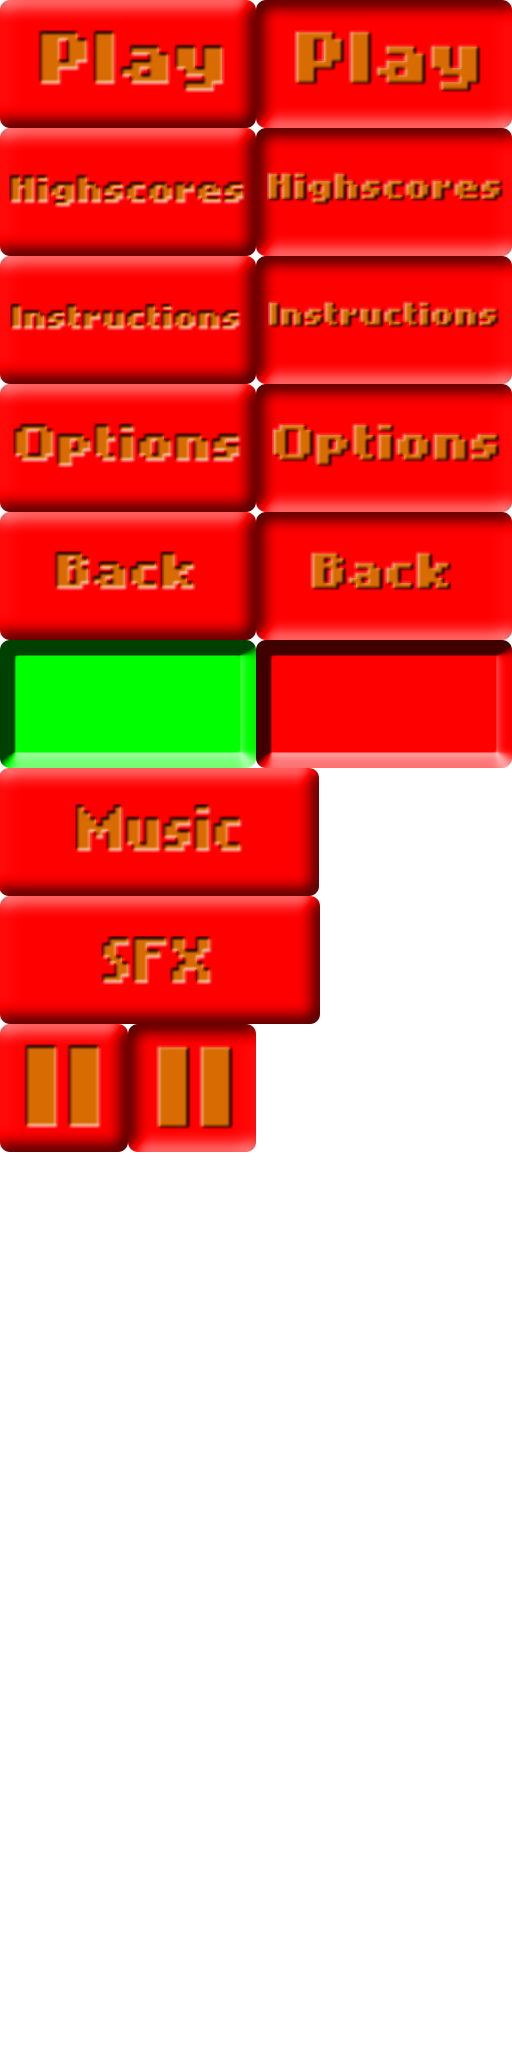
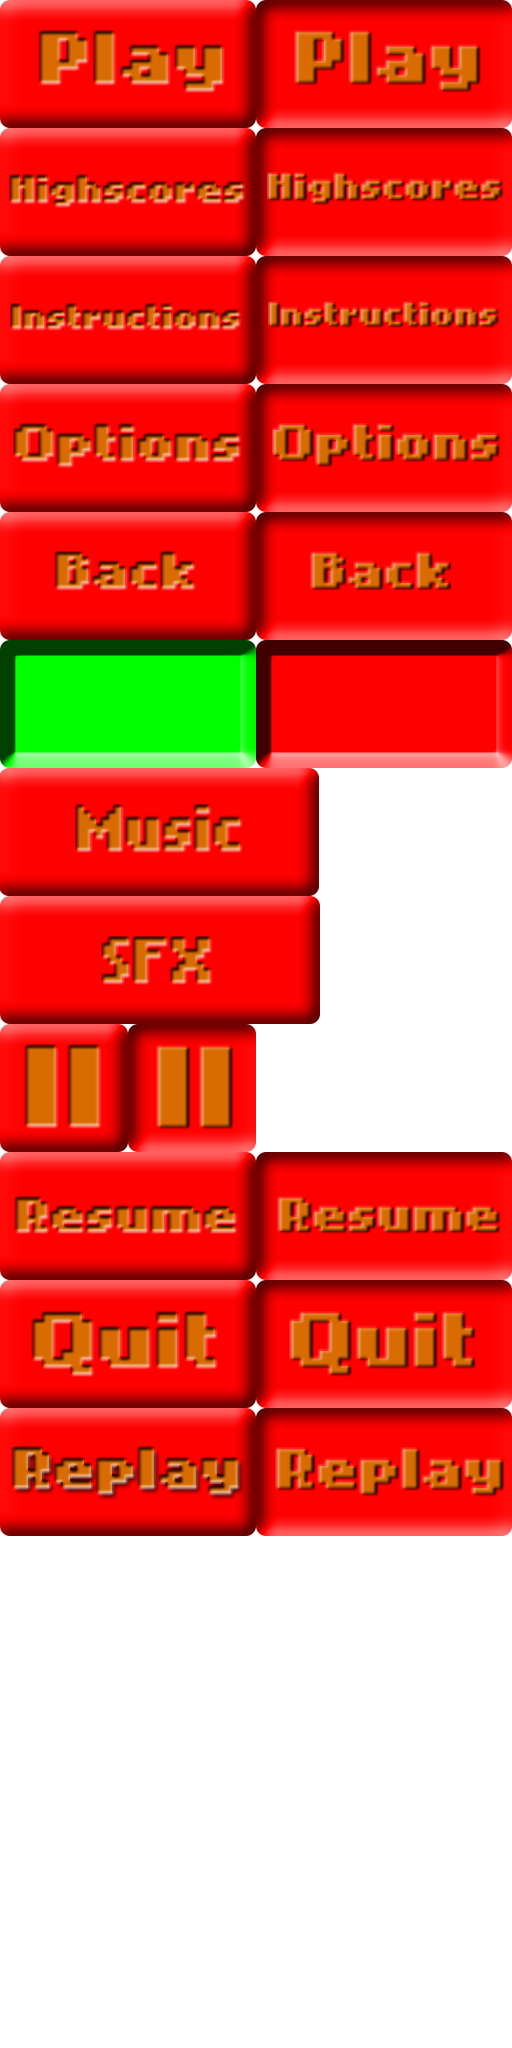
Pause and GameOver
started building pause and game over UI

Changed region(s): [[0.0, 0.5625, 1.0, 0.75]]

diff --git a/Tiltiland/src/scom/game/tiltiland/GamePlayScreen.java b/Tiltiland/src/scom/game/tiltiland/GamePlayScreen.java
@@ -29,6 +29,9 @@ public class GamePlayScreen extends Screen
 	
 	// Booleans for button presses
 	boolean pausePush = false;
+	boolean resumePush = false;
+	boolean quitPush = false;
+	boolean replayPush = false;
 	
 	// Objects game has
 	Island island; 
@@ -86,6 +89,42 @@ public class GamePlayScreen extends Screen
 						Assets.push.play(1);
 					}
 				}
+				
+				if(state == GameState.Paused && inBounds(event, 256, 320, 256, 128)) // Resume
+				{
+					resumePush = true; // is button being pushed
+					if(Settings.SFXEnabled)
+					{
+						Assets.push.play(1);
+					}
+				}
+				
+				if(state == GameState.Paused && inBounds(event, 256, 640, 256, 128)) // Quit
+				{
+					quitPush = true; // is button being pushed
+					if(Settings.SFXEnabled)
+					{
+						Assets.push.play(1);
+					}
+				}
+				
+				if(state == GameState.GameOver && inBounds(event, 256, 320, 256, 128)) // Replay
+				{
+					replayPush = true; // is button being pushed
+					if(Settings.SFXEnabled)
+					{
+						Assets.push.play(1);
+					}
+				}
+				
+				if(state == GameState.GameOver && inBounds(event, 256, 640, 256, 128)) // Quit
+				{
+					quitPush = true; // is button being pushed
+					if(Settings.SFXEnabled)
+					{
+						Assets.push.play(1);
+					}
+				}
 			}
 		}
 		
@@ -100,6 +139,30 @@ public class GamePlayScreen extends Screen
 					state = GameState.Paused;
 					pausePush = false;
 				}
+				
+				if(state == GameState.Paused && inBounds(event, 256, 320, 256, 128)) // Resume
+				{
+					state = GameState.Running;
+					resumePush = false;
+				}
+				
+				if(state == GameState.Paused && inBounds(event, 256, 640, 256, 128)) // Quit
+				{
+					game.setScreen(new MainMenuScreen(game));
+					quitPush = false;
+				}
+				
+				if(state == GameState.GameOver && inBounds(event, 256, 320, 256, 128)) // Replay
+				{
+					
+					replayPush = false;
+				}
+				
+				if(state == GameState.GameOver && inBounds(event, 256, 640, 256, 128)) // Quit
+				{
+					game.setScreen(new MainMenuScreen(game));
+					quitPush = false;
+				}
 			}
 		}
 		
@@ -109,11 +172,101 @@ public class GamePlayScreen extends Screen
 	private void UpdatePaused(List<TouchEvent> touchEvents)
 	{
 		int len = touchEvents.size(); // length of touches array
+		for(int i = 0; i < len; i++) // touch down loop
+		{
+			TouchEvent event = touchEvents.get(i);
+			if(event.type == TouchEvent.TOUCH_DOWN)
+			{
+				//all if's for buttons
+				if(inBounds(event, 256, 320, 256, 128)) // Resume
+				{
+					resumePush = true; // is button being pushed
+					if(Settings.SFXEnabled)
+					{
+						Assets.push.play(1);
+					}
+				}
+				
+				if(inBounds(event, 256, 640, 256, 128)) // Quit
+				{
+					quitPush = true; // is button being pushed
+					if(Settings.SFXEnabled)
+					{
+						Assets.push.play(1);
+					}
+				}
+			}
+		}
+		
+		for(int i = 0; i < len; i++) // touch up loop
+		{
+			TouchEvent event = touchEvents.get(i);
+			if(event.type == TouchEvent.TOUCH_UP)
+			{
+				//all if's for buttons
+				if(inBounds(event, 256, 320, 256, 128)) // Resume
+				{
+					state = GameState.Running;
+					resumePush = false;
+				}
+				
+				if(inBounds(event, 256, 640, 256, 128)) // Quit
+				{
+					game.setScreen(new MainMenuScreen(game));
+					quitPush = false;
+				}
+			}
+		}
 	}
 	
 	private void UpdateGameOver(List<TouchEvent> touchEvents)
 	{
 		int len = touchEvents.size(); // length of touches array
+		for(int i = 0; i < len; i++) // touch down loop
+		{
+			TouchEvent event = touchEvents.get(i);
+			if(event.type == TouchEvent.TOUCH_DOWN)
+			{
+				//all if's for buttons
+				if(inBounds(event, 256, 320, 256, 128)) // Replay
+				{
+					replayPush = true; // is button being pushed
+					if(Settings.SFXEnabled)
+					{
+						Assets.push.play(1);
+					}
+				}
+				
+				if(inBounds(event, 256, 640, 256, 128)) // Quit
+				{
+					quitPush = true; // is button being pushed
+					if(Settings.SFXEnabled)
+					{
+						Assets.push.play(1);
+					}
+				}
+			}
+		}
+		
+		for(int i = 0; i < len; i++) // touch up loop
+		{
+			TouchEvent event = touchEvents.get(i);
+			if(event.type == TouchEvent.TOUCH_UP)
+			{
+				//all if's for buttons
+				if(inBounds(event, 256, 320, 256, 128)) // Replay
+				{
+					
+					replayPush = false;
+				}
+				
+				if(inBounds(event, 256, 640, 256, 128)) // Quit
+				{
+					game.setScreen(new MainMenuScreen(game));
+					quitPush = false;
+				}
+			}
+		}
 	}
 	
     public void present(float deltaTime)
@@ -164,7 +317,8 @@ public class GamePlayScreen extends Screen
     
     private void DrawReadyUI()
     {
-    	
+    	g.drawPixmap(Assets.shroud, 0, 0, 768, 1024, 768, 320);
+    	g.drawPixmap(Assets.title, 0, 0, 0, 320, 768, 320);
     }
     
     private void DrawGameUI()
@@ -185,12 +339,52 @@ public class GamePlayScreen extends Screen
     
     private void DrawPausedUI()
     {
+    	g.drawPixmap(Assets.shroud, 0, 0, 768, 1024, 768, 320);
+    	g.drawPixmap(Assets.title, 0, 0, 768, 320, 768, 320);
     	
+    	// Buttons
+    	if(resumePush == false)
+    	{
+    		g.drawPixmap(Assets.buttons, 256, 320, 0, 1152, 256, 128); // ResumeB
+    	}
+    	else
+    	{
+    		g.drawPixmap(Assets.buttons, 256, 320, 256, 1152, 256, 128); // ResumeBD
+    	}
+    	
+    	if(quitPush == false)
+    	{
+    		g.drawPixmap(Assets.buttons, 256, 640, 0, 1280, 256, 128); // QuitB
+    	}
+    	else
+    	{
+    		g.drawPixmap(Assets.buttons, 256, 640, 256, 1280, 256, 128); // QuitBD
+    	}
     }
     
     private void DrawGameOverUI()
     {
+    	g.drawPixmap(Assets.shroud, 0, 0, 768, 1024, 768, 320);
+    	g.drawPixmap(Assets.title, 0, 0, 1536, 320, 768, 320);
     	
+    	// Buttons
+    	if(replayPush == false)
+    	{
+    		g.drawPixmap(Assets.buttons, 256, 320, 0, 1408, 256, 128); // ReplayB
+    	}
+    	else
+    	{
+    		g.drawPixmap(Assets.buttons, 256, 320, 256, 1408, 256, 128); // ReplayBD
+    	}
+    	
+    	if(quitPush == false)
+    	{
+    		g.drawPixmap(Assets.buttons, 256, 640, 0, 1280, 256, 128); // QuitB
+    	}
+    	else
+    	{
+    		g.drawPixmap(Assets.buttons, 256, 640, 256, 1280, 256, 128); // QuitBD
+    	}
     }
     
     private void DrawAnimals() // draws each animal on the screen

diff --git a/Tiltiland/src/scom/game/tiltiland/OptionsScreen.java b/Tiltiland/src/scom/game/tiltiland/OptionsScreen.java
@@ -78,7 +78,7 @@ public class OptionsScreen extends Screen
 	    	g.drawPixmap(Assets.background, 0, 0);
 	    	g.drawPixmap(Assets.island, 133, 384);
 	    	g.drawPixmap(Assets.foreWater, 0, 0);
-	    	g.drawPixmap(Assets.title, 0, 0, 768, 0, 768, 400);
+	    	g.drawPixmap(Assets.title, 0, 0, 768, 0, 768, 320);
 	    	g.drawPixmap(Assets.buttons, 128, 320, 0, 640, 512, 128); // top slider backing
 	    	g.drawPixmap(Assets.buttons, 128, 640, 0, 640, 512, 128); // bottom slider backing
 	    	

diff --git a/Tiltiland/src/scom/game/tiltiland/HighscoreScreen.java b/Tiltiland/src/scom/game/tiltiland/HighscoreScreen.java
@@ -61,7 +61,7 @@ public class HighscoreScreen extends Screen {
 	    	g.drawPixmap(Assets.background, 0, 0);
 	    	g.drawPixmap(Assets.island, 133, 384);
 	    	g.drawPixmap(Assets.foreWater, 0, 0);
-	    	g.drawPixmap(Assets.title, 0, 0, 1536, 0, 768, 400);
+	    	g.drawPixmap(Assets.title, 0, 0, 1536, 0, 768, 320);
 	    	
 	    	// Buttons
 	    	if(backPush == false)

diff --git a/Tiltiland/src/scom/game/tiltiland/MainMenuScreen.java b/Tiltiland/src/scom/game/tiltiland/MainMenuScreen.java
@@ -110,7 +110,7 @@ public class MainMenuScreen extends Screen
     	g.drawPixmap(Assets.background, 0, 0);
     	g.drawPixmap(Assets.island, 133, 384);
     	g.drawPixmap(Assets.foreWater, 0, 0);
-    	g.drawPixmap(Assets.title, 0, 0, 0, 0, 768, 400);
+    	g.drawPixmap(Assets.title, 0, 0, 0, 0, 768, 320);
     	
     	
     	// Buttons
